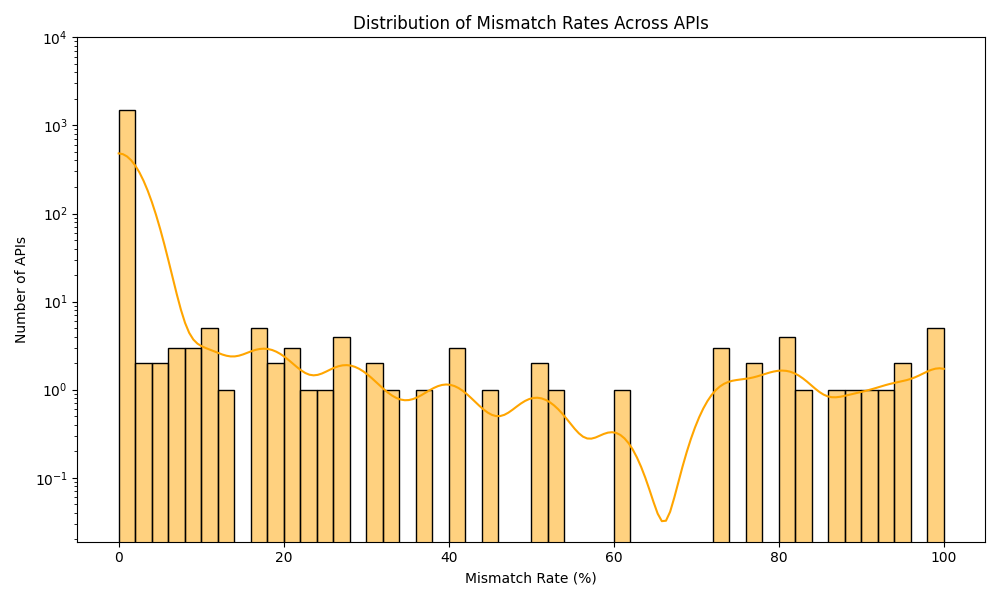
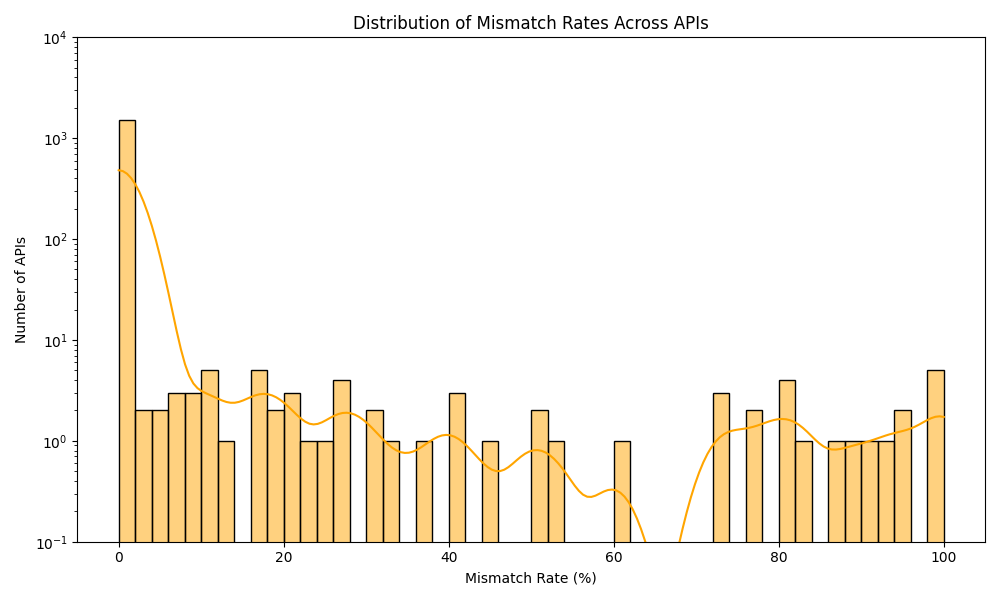
Add in readme

diff --git a/run.py b/run.py
@@ -286,6 +286,13 @@ def main(num_programs: int = 1584, num_apis: int = 1, start_id: int = 0, max_wor
 
     # Create results directory if it doesn't exist
     os.makedirs('result_parts', exist_ok=True)
+    os.makedirs('temp_code', exist_ok=True)
+    os.makedirs('mismatch_files', exist_ok=True)
+    os.makedirs('parameter_files', exist_ok=True)
+    os.makedirs('program_files', exist_ok=True)
+    os.makedirs('parameter_API_files', exist_ok=True)
+    os.makedirs('program_API_files', exist_ok=True)
+    os.makedirs('program_usage', exist_ok=True)
 
     # Read in a list of PyTorch APIs
     with open('api_def_torch.txt', 'r') as f:

diff --git a/analyse.py b/analyse.py
@@ -359,7 +359,7 @@ def generate_summary_visualizations(stats: pd.DataFrame, output_dir: str):
     plt.xlabel('Mismatch Rate (%)')
     plt.ylabel('Number of APIs')
     plt.tight_layout()
-    plt.ylim(0, 1e4)
+    plt.ylim(1e-1, 1e4)
     plt.savefig(os.path.join(output_dir, 'mismatch_rate_distribution.png'))
     plt.close()
     
